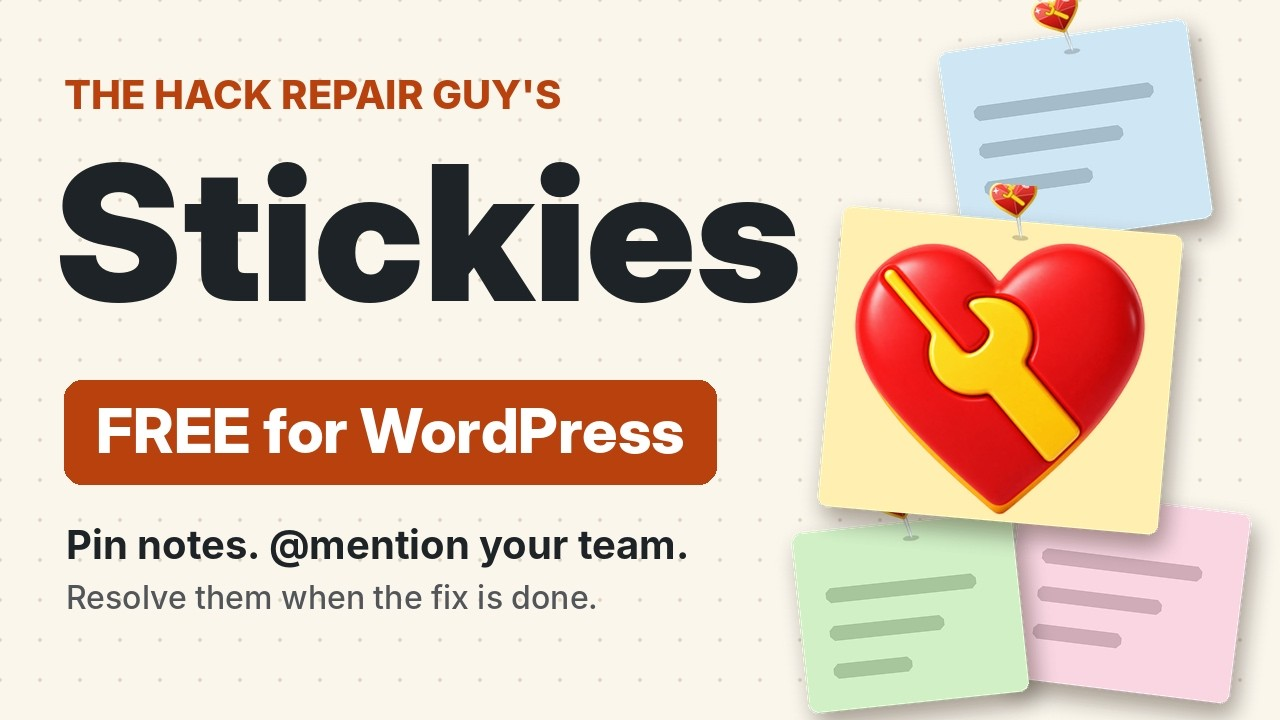
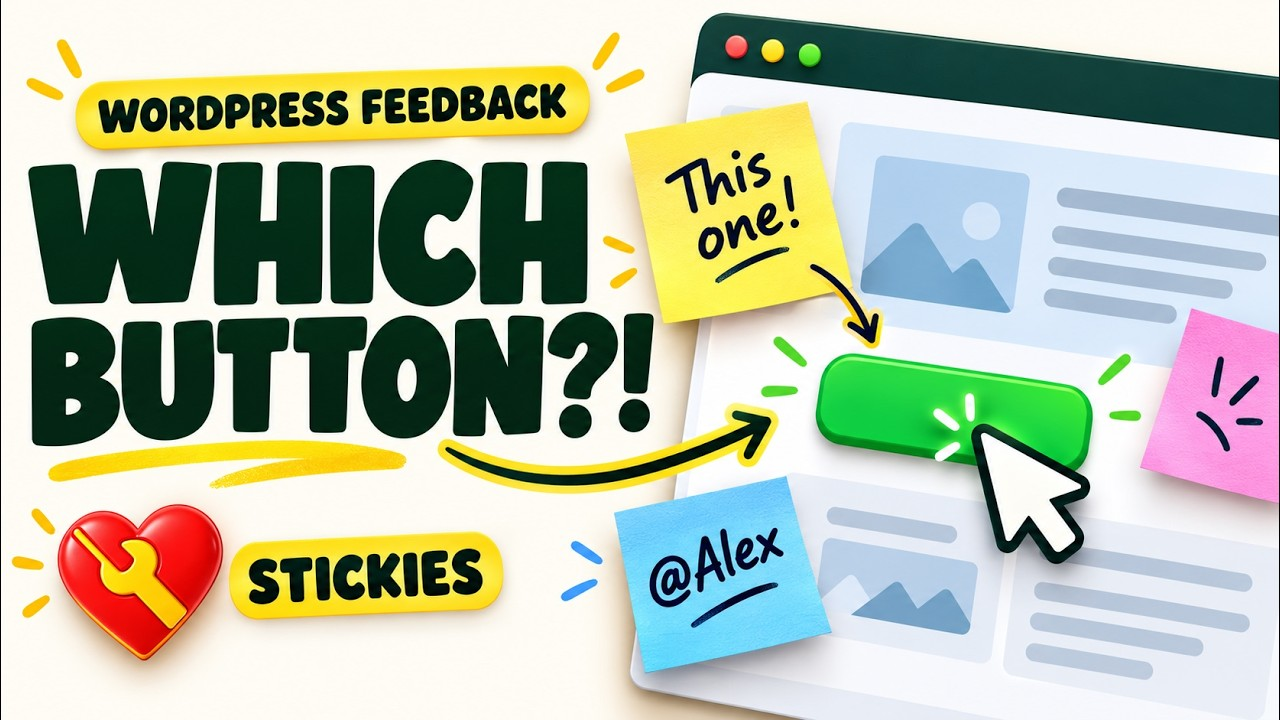
Point to the WordPress.org listing and support forum, and use the new walkthrough video

diff --git a/docs/index.html b/docs/index.html
@@ -200,7 +200,7 @@ footer { padding: 44px 0 56px; border-top: 2px solid var(--ink); }
       <a href="#tour">Watch</a>
       <a href="#install">Install</a>
       <a href="https://github.com/hackrepair/thrg-stickies">GitHub</a>
-      <a href="https://github.com/hackrepair/thrg-stickies/discussions">Support</a>
+      <a href="https://wordpress.org/support/plugin/thrg-stickies/">Support</a>
     </nav>
   </header>
 
@@ -247,7 +247,7 @@ footer { padding: 44px 0 56px; border-top: 2px solid var(--ink); }
         <img src="img/poster.jpg" alt="" width="1280" height="720" loading="lazy">
         <button class="play" type="button" aria-label="Play the Stickies video"><span><svg viewBox="0 0 24 24" aria-hidden="true"><path d="M7 4.5v15a1 1 0 0 0 1.5.86l12-7.5a1 1 0 0 0 0-1.72l-12-7.5A1 1 0 0 0 7 4.5z"/></svg>Play the video</span></button>
       </div>
-      <noscript><p><a href="https://www.youtube.com/watch?v=cvO_PknGIyA">Watch the video on YouTube</a></p></noscript>
+      <noscript><p><a href="https://www.youtube.com/watch?v=WeP5P2GjtF8">Watch the video on YouTube</a></p></noscript>
       <div class="below">
         <a class="btn" data-download href="https://github.com/hackrepair/thrg-stickies/releases/latest">
           <svg viewBox="0 0 24 24" fill="none" stroke="currentColor" stroke-width="2.4" stroke-linecap="round" stroke-linejoin="round" aria-hidden="true"><path d="M12 4v11m0 0-5-5m5 5 5-5M5 20h14"/></svg>
@@ -304,12 +304,12 @@ footer { padding: 44px 0 56px; border-top: 2px solid var(--ink); }
   <div class="wrap foot">
     <div>
       <p><strong>Made by The Hack Repair Guy.</strong></p>
-      <p class="small">Free software, released under the GPL. Questions and ideas are welcome in GitHub Discussions.</p>
+      <p class="small">Free software, released under the GPL. Questions and ideas are welcome in the <a href="https://wordpress.org/support/plugin/thrg-stickies/">support forum on WordPress.org</a>.</p>
     </div>
     <nav aria-label="Project links">
       <a href="https://github.com/hackrepair/thrg-stickies">GitHub</a>
-      <a href="https://github.com/hackrepair/thrg-stickies/releases">Releases</a>
-      <a href="https://github.com/hackrepair/thrg-stickies/discussions">Support</a>
+      <a href="https://wordpress.org/plugins/thrg-stickies/">WordPress.org</a>      <a href="https://github.com/hackrepair/thrg-stickies/releases">Releases</a>
+      <a href="https://wordpress.org/support/plugin/thrg-stickies/">Support</a>
       <a href="https://hackrepair.com/">hackrepair.com</a>
     </nav>
   </div>
@@ -323,7 +323,7 @@ footer { padding: 44px 0 56px; border-top: 2px solid var(--ink); }
   if (play) {
     play.addEventListener('click', function () {
       var frame = document.createElement('iframe');
-      frame.src = 'https://www.youtube-nocookie.com/embed/cvO_PknGIyA?autoplay=1&rel=0';
+      frame.src = 'https://www.youtube-nocookie.com/embed/WeP5P2GjtF8?autoplay=1&rel=0';
       frame.title = 'Stickies in action';
       frame.allow = 'accelerometer; autoplay; clipboard-write; encrypted-media; gyroscope; picture-in-picture; fullscreen';
       frame.allowFullscreen = true;

diff --git a/assets/brand/thrg-details.css b/assets/brand/thrg-details.css
@@ -51,9 +51,9 @@ body #plugin-information-title.with-banner::after {
     background: url("stickies-video-thumbnail.jpg") center / contain no-repeat;
     border-radius: 8px;
 }
-#plugin-information #section-description > a[href="https://www.youtube.com/watch?v=cvO_PknGIyA"] { display: block; max-width: 400px; margin: 0 0 18px; }
-#plugin-information #section-description > a[href="https://www.youtube.com/watch?v=cvO_PknGIyA"] img { display: block; width: 100%; height: auto; border-radius: 6px; }
-#plugin-information #section-description > a[href="https://www.youtube.com/watch?v=cvO_PknGIyA"]:focus-visible { outline: 3px solid #2271b1; outline-offset: 4px; }
+#plugin-information #section-description > a[href="https://www.youtube.com/watch?v=WeP5P2GjtF8"] { display: block; max-width: 400px; margin: 0 0 18px; }
+#plugin-information #section-description > a[href="https://www.youtube.com/watch?v=WeP5P2GjtF8"] img { display: block; width: 100%; height: auto; border-radius: 6px; }
+#plugin-information #section-description > a[href="https://www.youtube.com/watch?v=WeP5P2GjtF8"]:focus-visible { outline: 3px solid #2271b1; outline-offset: 4px; }
 @media (max-width: 650px) {
     body #plugin-information-title.with-banner { gap: 16px; padding: 24px; }
     body #plugin-information-title.with-banner::before { flex-basis: 64px; width: 64px; height: 64px; }

diff --git a/includes/class-thrg-stk-details.php b/includes/class-thrg-stk-details.php
@@ -205,7 +205,7 @@ final class THRG_STK_Details {
 
         $url = plugins_url( 'assets/', THRG_STK_FILE );
 
-        $sections['description'] = '<a class="thrg-stk-video-preview" href="https://www.youtube.com/watch?v=cvO_PknGIyA" target="_blank" rel="noopener noreferrer"><img src="' . esc_url( $url . 'brand/stickies-video-thumbnail.jpg' ) . '" width="1280" height="720" alt="' . esc_attr__( 'Watch Stickies in action on YouTube (opens in a new tab)', 'thrg-stickies' ) . '" /></a>' . $sections['description'];
+        $sections['description'] = '<a class="thrg-stk-video-preview" href="https://www.youtube.com/watch?v=WeP5P2GjtF8" target="_blank" rel="noopener noreferrer"><img src="' . esc_url( $url . 'brand/stickies-video-thumbnail.jpg' ) . '" width="1280" height="720" alt="' . esc_attr__( 'Watch Stickies in action on YouTube (opens in a new tab)', 'thrg-stickies' ) . '" /></a>' . $sections['description'];
 
         wp_enqueue_style( 'thrg-stk-brand', $url . 'brand/thrg-brand.css', array(), THRG_STK_VERSION );
         wp_enqueue_style( 'thrg-stk-brand-details', $url . 'brand/thrg-details.css', array( 'thrg-stk-brand' ), THRG_STK_VERSION );

diff --git a/README.md b/README.md
@@ -10,13 +10,13 @@ Pin sticky notes to the exact spot on any page of your WordPress site, mention a
 
 <p align="center">
   <strong>▶ Watch Stickies in action</strong><br>
-  <a href="https://www.youtube.com/watch?v=cvO_PknGIyA"><img src="https://img.youtube.com/vi/cvO_PknGIyA/hqdefault.jpg" alt="Free Sticky Notes for Your WordPress Team: watch on YouTube" width="480"></a>
+  <a href="https://www.youtube.com/watch?v=WeP5P2GjtF8"><img src="https://img.youtube.com/vi/WeP5P2GjtF8/hqdefault.jpg" alt="Free Sticky Notes for Your WordPress Team: watch on YouTube" width="480"></a>
   <br><br>
   <a href="https://github.com/hackrepair/thrg-stickies/releases/latest" title="Download the latest Stickies plugin zip from GitHub"><img src="https://img.shields.io/badge/%E2%AC%87%20%20Download%20the%20latest%20release-b34700?style=for-the-badge&labelColor=b34700" alt="Download the latest release" height="46"></a>
   <br>
   <sub>Free. Upload the zip in WordPress, and later updates arrive on the Plugins screen.</sub>
   <br><br>
-  <a href="https://hackrepair.github.io/thrg-stickies/" title="The Stickies project page">Visit the Stickies page</a>
+  <a href="https://wordpress.org/plugins/thrg-stickies/" title="Stickies on WordPress.org">Stickies on WordPress.org</a> · <a href="https://hackrepair.github.io/thrg-stickies/" title="The Stickies project page">Visit the Stickies page</a>
 </p>
 
 ## What it does
@@ -70,7 +70,7 @@ Administrators who can list users see email addresses next to names and can sear
 
 **[Jim Walker](https://hackrepair.com/ "The Hack Repair Guy: WordPress security and hack repair")**, The Hack Repair Guy, author and maintainer.
 
-[Questions, ideas and community support](https://github.com/hackrepair/thrg-stickies/discussions "GitHub Discussions") · [Report a bug](https://github.com/hackrepair/thrg-stickies/issues "GitHub Issues") · [Security reporting](mailto:jim%40hackrepair%2Ecom "Email Jim privately") · [Buy Jim a coffee](https://hackrepair.com/donations/buy-jim-a-coffee "Support The Hack Repair Guy")
+[Support forum on WordPress.org](https://wordpress.org/support/plugin/thrg-stickies/ "Stickies support forum on WordPress.org") · [GitHub Discussions](https://github.com/hackrepair/thrg-stickies/discussions "GitHub Discussions") · [Report a bug](https://github.com/hackrepair/thrg-stickies/issues "GitHub Issues") · [Security reporting](mailto:jim%40hackrepair%2Ecom "Email Jim privately") · [Buy Jim a coffee](https://hackrepair.com/donations/buy-jim-a-coffee "Support The Hack Repair Guy")
 
 ## License and credits
 
